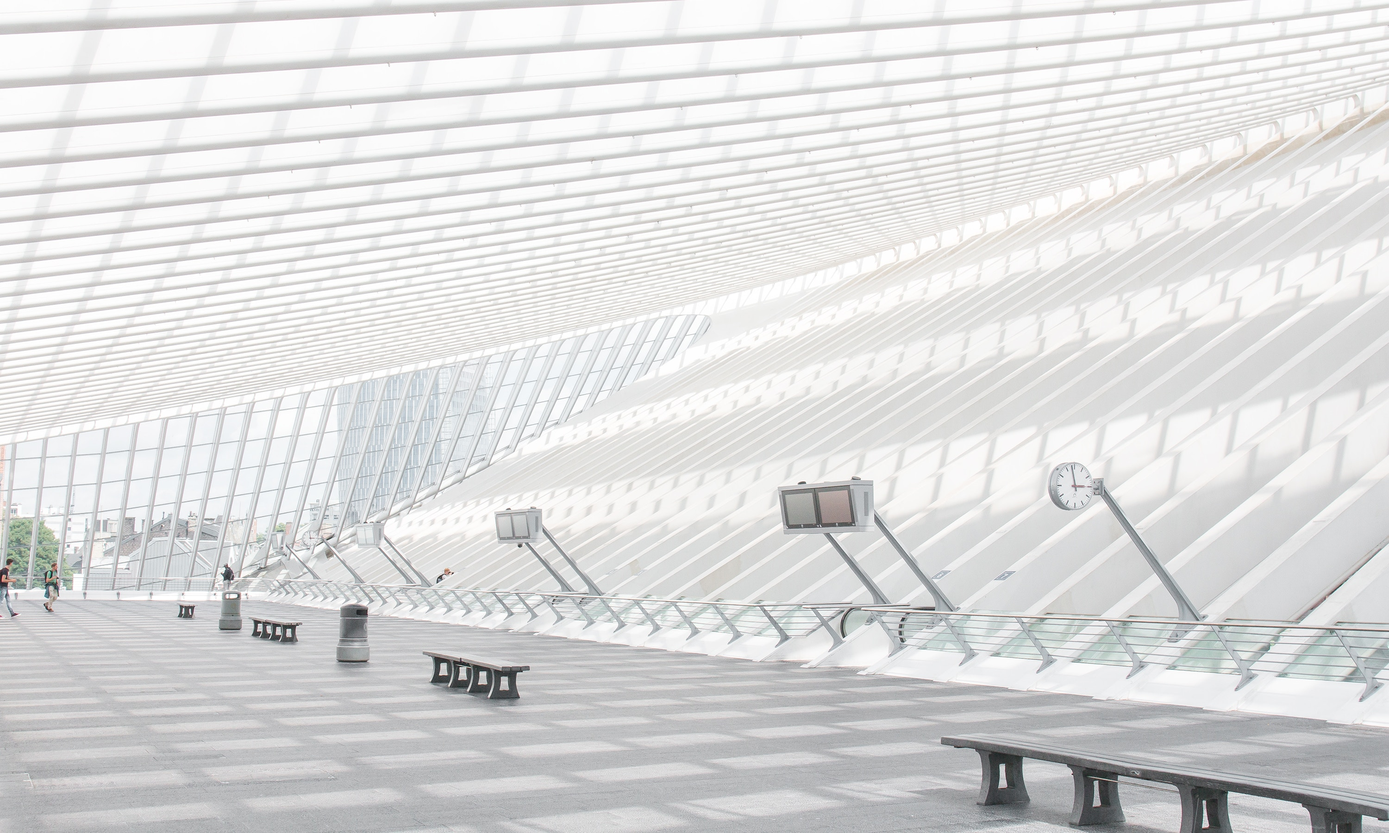
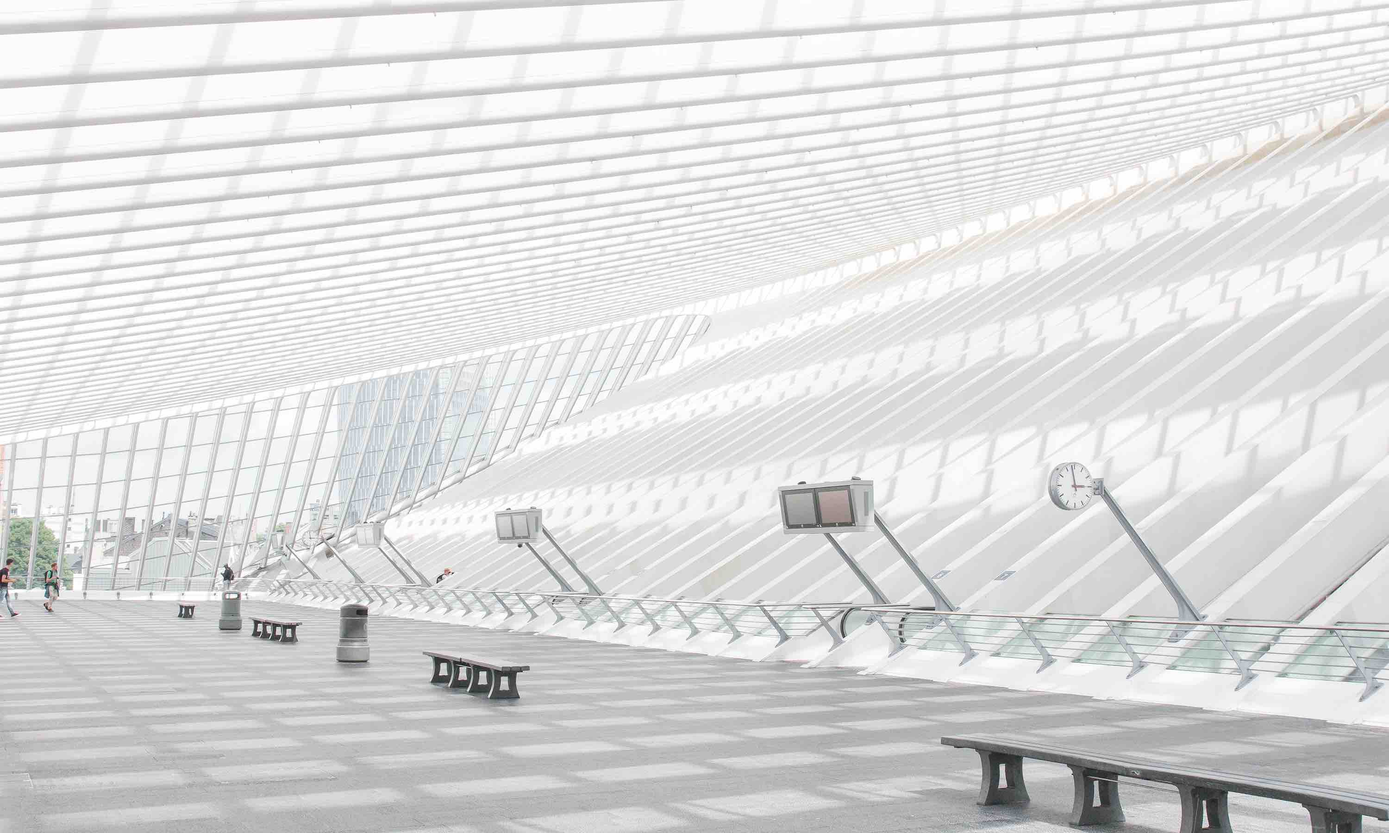
defer jquery, compress hero.jpg

Changed region(s): [[0.0, 0.6533, 0.062, 0.7156], [0.775, 0.9956, 0.806, 1.0]]

diff --git a/index.html b/index.html
@@ -10,9 +10,9 @@
       content="width=device-width, initial-scale=1.0, minimum-scale=1.0"
     />
 
-    <link rel="stylesheet" type="text/css" href="css/bootstrap.css" />
-    <link rel="stylesheet" type="text/css" href="css/owl.transitions.css" />
-    <link rel="stylesheet" type="text/css" href="css/owl.carousel.css" />
+    <link defer rel="stylesheet" type="text/css" href="css/bootstrap.css" />
+    <link defer rel="stylesheet" type="text/css" href="css/owl.transitions.css" />
+    <link defer rel="stylesheet" type="text/css" href="css/owl.carousel.css" />
     <link rel="stylesheet" type="text/css" href="css/animate.css" />
     <link rel="stylesheet" type="text/css" href="css/main.css" />
   </head>
@@ -357,7 +357,7 @@
     </footer>
     <!--  End Footer Section  -->
 
-    <script type="text/javascript" src="js/jquery.js"></script>
+    <script defer type="text/javascript" src="js/jquery.js"></script>
     <script defer type="text/javascript" src="js/ajaxchimp.js"></script>
 
     <script defer type="text/javascript" src="js/owl.carousel.min.js"></script>

diff --git a/js/main.js b/js/main.js
@@ -10,7 +10,7 @@ $(document).ready(function () {
   });
 
   $(".app_link").click(function (e) {
-    e.preventDefault();
+    event.preventDefault();
     $(window).scrollTo({ top: $("#hero").position().top, left: "0px" }, 1000);
   });
 

diff --git a/css/main.css b/css/main.css
@@ -583,7 +583,7 @@ a.app_link{
 	font-size: 14px;
 }
 
-.#tslider{
+#tslider{
 	text-align: center!important;
 	position: relative!important;
 }
